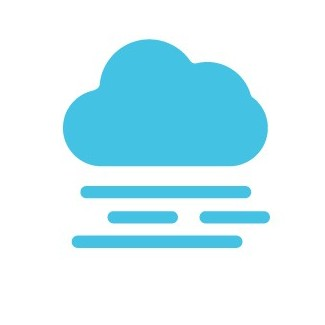
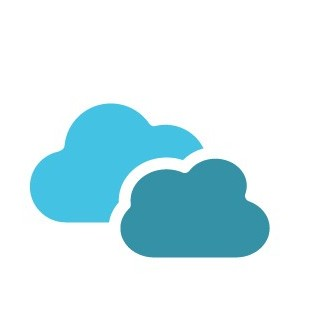
changes names for images and refactor methods pronostic

diff --git a/src/controllers/pronosticController.js b/src/controllers/pronosticController.js
@@ -2,13 +2,12 @@ const pronosticServices = require("../services/pronosticServices");
 const weatherConditionsServices = require("../services/weatherConditionsServices");
 const Pronostic = require("../models/Pronostic");
 const WeatherData = require("../models/WeatherData");
-const WeatherConditions = require("../models/weatherConditions");
 
 const moment = require("moment-timezone");
 
 
 module.exports = {
-    createPronostic: async (req, res) => {    
+    createPronostic: async (req, res) => {
         try {
             // Se obtiene el rango de fechas
             const { initDate, endDate } = req.params;
@@ -31,7 +30,7 @@ module.exports = {
                 },
             });
 
-            console.log({weatherDataResult});
+            console.log({ weatherDataResult });
 
             // Se valida que los datos climáticos
             if (!weatherDataResult || weatherDataResult.length == 0) {
@@ -60,7 +59,7 @@ module.exports = {
 
             console.log({ dateTime });
 
-            const result = await Pronostic.create({ dateTime, pronostic: weatherConditionsResult._id, weatherData: weatherDataResult.map((data) => data._id), image: `http://localhost:3000/soleado.jpg` });
+            const result = await Pronostic.create({ dateTime, pronostic: weatherConditionsResult._id, weatherData: weatherDataResult.map((data) => data._id), image: `http://localhost:3000/${weatherConditionsResult.image}` });
 
             console.log({ result });
 
@@ -107,8 +106,6 @@ module.exports = {
             })
         }
 
-        // await result.refreshExternal();
-
         res.status(200).json({
             msg: "OK",
             result,
@@ -142,12 +139,13 @@ module.exports = {
     },
 
     // Se genera un pronóstico, pero no se guarda en base de datos. Para casos donde se envie un reporte y se quiera saber el pronóstico
-    getGeneratePronosticByDate: async (req, res) => {        
+    getGeneratePronosticByDate: async (req, res) => {
         //* Agregar campo 'p' en caso de seguir el modelo de Hots Winter
-        
+
         try {
             // Se obtiene el rango de fechas
             const { initDate, endDate } = req.params;
+            const { populate = false } = req.query;
 
             // Se valida que el rango de fechas sea válido
             if (
@@ -194,7 +192,7 @@ module.exports = {
 
             console.log({ dateTime });
 
-            const result = { dateTime, pronostic: weatherConditionsResult._id, weatherData: weatherDataResult.map((data) => data._id), image: `http://localhost:3000/soleado.jpg` };
+            const result = { dateTime, pronostic: populate ? weatherConditionsResult : weatherConditionsResult.external_id, weatherData: weatherDataResult.map((data) => data._id), image: `http://localhost:3000/${weatherConditionsResult.image}` };
 
             console.log({ result });
 

diff --git a/src/routes/users.js b/src/routes/users.js
@@ -1,8 +1,8 @@
 var express = require("express");
 var router = express.Router();
 
-const conditionC = require('../controllers/WeatherConditionsController');
-let conditionControl = new conditionC();
+// const conditionC = require('../controllers/WeatherConditionsController');
+// let conditionControl = new conditionC();
 
 const users = [{ name: "Viviana", lastname: "Calva" }];
 
@@ -10,10 +10,10 @@ router.get("/", function (req, res, next) {
   res.json({ totalCount: users.length, results: users });
 });
 
-router.get('/list/weatherCondition', conditionControl.list);
-router.get('/get/weatherCondition/:external_id', conditionControl.getByExternalId);
-router.post('/save/weatherCondition', conditionControl.save);
-router.post('/modify/weatherCondition/:external_id', conditionControl.modify);
+// router.get('/list/weatherCondition', conditionControl.list);
+// router.get('/get/weatherCondition/:external_id', conditionControl.getByExternalId);
+// router.post('/save/weatherCondition', conditionControl.save);
+// router.post('/modify/weatherCondition/:external_id', conditionControl.modify);
 
 
 module.exports = router;

diff --git a/src/routes/index.js b/src/routes/index.js
@@ -8,6 +8,7 @@ const accountRouter = require("./account.routes");
 const authRouter = require("./auth.routes");
 const imageRouter = require("./image.routes");
 const sensorRouter = require("./sensor.routes");
+const weatherConditions = require("./weatherConditions");
 
 const router = express.Router();
 
@@ -24,5 +25,6 @@ router.use("/rol", rolRouter);
 router.use("/accounts", accountRouter);
 router.use("/images", imageRouter);
 router.use("/sensor", sensorRouter);
+router.use("/weatherconditions", weatherConditions);
 
 module.exports = router;

diff --git a/src/routes/weatherConditions.js b/src/routes/weatherConditions.js
@@ -1,0 +1,14 @@
+const express = require("express");
+const isLoggedIn = require("../policies/isLoggedIn");
+const conditionC = require('../controllers/WeatherConditionsController');
+let conditionControl = new conditionC();
+
+
+const router = express.Router();
+
+router.get('/list', conditionControl.list);
+router.get('/get/:external_id', conditionControl.getByExternalId);
+router.post('/save', conditionControl.save);
+router.post('/modify/:external_id', conditionControl.modify);
+
+module.exports = router;
